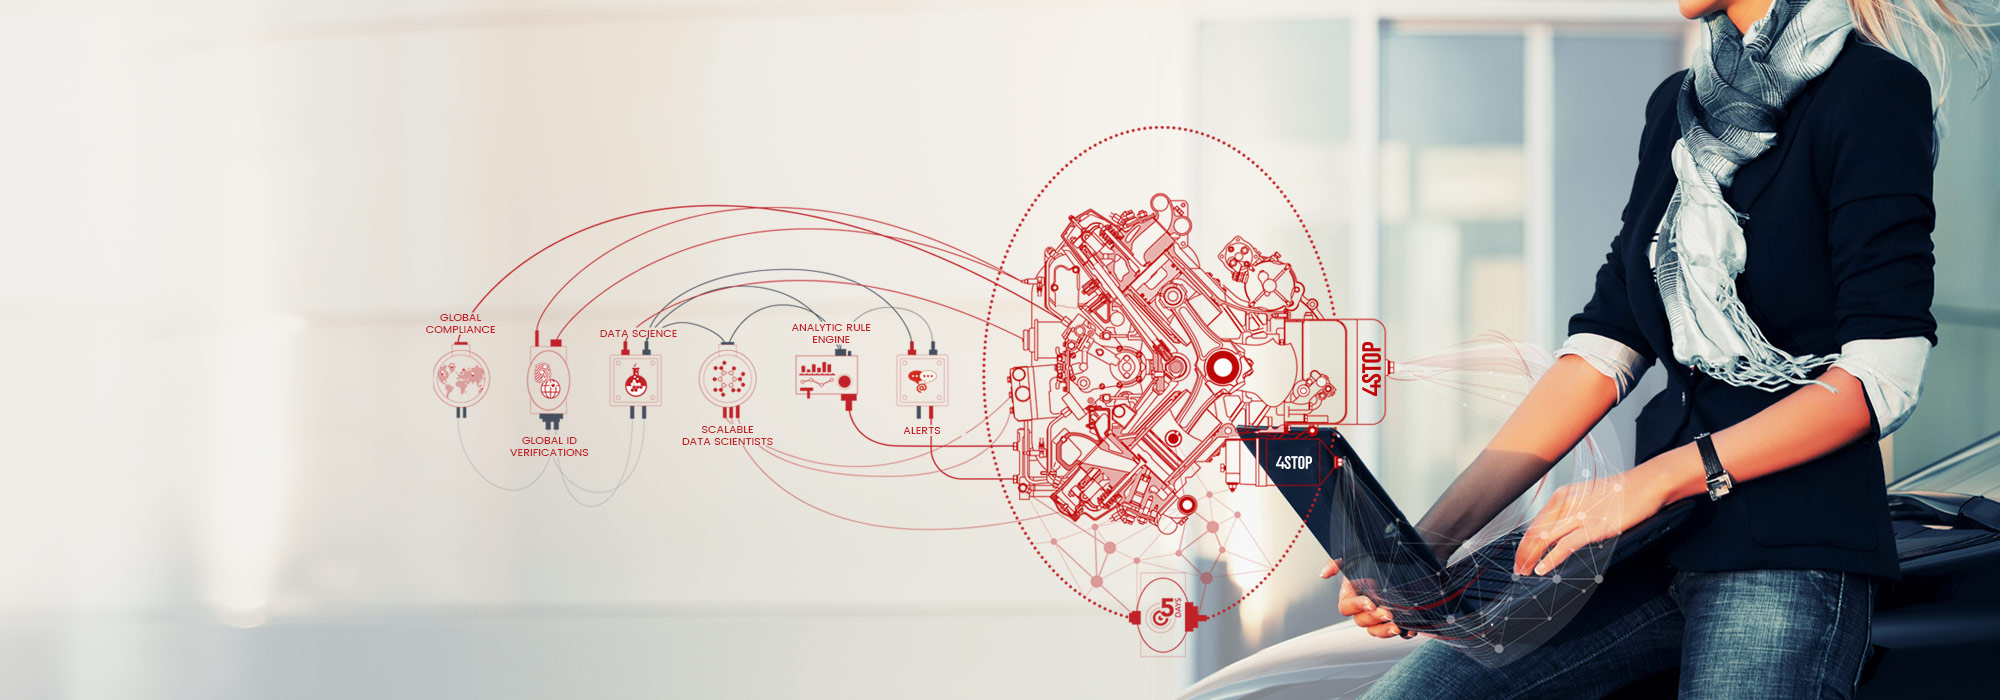
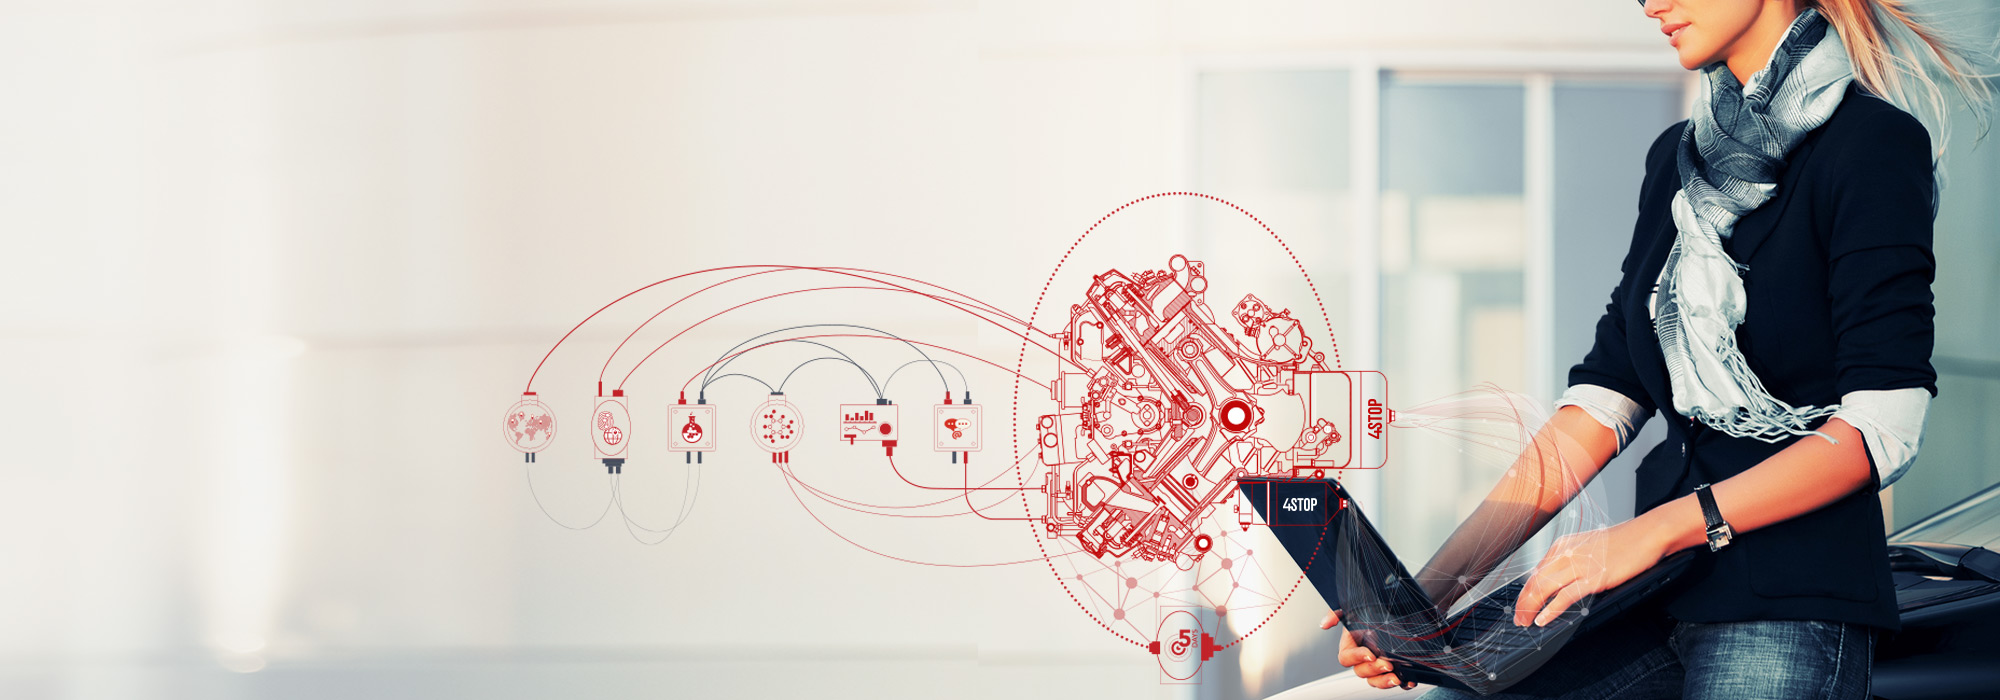
image updates

diff --git a/_site/Онас.html b/_site/Онас.html
@@ -130,7 +130,7 @@ background-position: center center;" >
 						</div>
 					</div>
 						<div class="col-md-12" align="center">
-							<img src="assets/images/what-we-do-infographic.png" alt="" class="offer-1-product__img fx" data-animation-name="slideInDown" data-animation-duration="0.9s" data-animation-delay="0s">
+							<img src="assets/images/what-we-do-infographic-ru.png" alt="" class="offer-1-product__img fx" data-animation-name="slideInDown" data-animation-duration="0.9s" data-animation-delay="0s">
 							<h3 style="color:#d42227; padding-top:20px; padding-bottom:40px;" align="center">Мы предоставляем улучшенную инновационную технологию KYC, систему управления рисками, и обеспечиваем совместимость для более эффективной и быстрой интеграции и работы по сравнению с любой другой подобной технологией в профессиональной среде.</h3>
 						</div>
 				</div>
@@ -149,7 +149,7 @@ background-position: center center;" >
 								<div class="process-subitem fx" data-animation-name="fadeInRight" data-animation-duration="1s" data-animation-delay="0.2s">
 									<i class="process-subitem__ico ico-12">Модернизация</i>	
 									<p class="process-subitem__description">Активируйте любую службу данных KYC с нулевой очередью запросов к устройству или без очереди запросов к устройству. Наши специалисты по обработке данных работают 24 часа и 7 дней в неделю. Больше никакой загруженной очереди запросов к устройству.<br><br>
-										Нулевая очередь загруженности запросов к устройству<br><br>Абсолютная защита
+										Нулевая очередь загруженности запросов к устройству.<br><br>Абсолютная защита.
 </p>
 								</div>
 							
@@ -226,7 +226,7 @@ background-position: center center;" >
 					<div class="row">
 						<div class="col-xs-12 col-sm-12 col-md-6 align-middle">
 							<div class="s-get-it-2__title"><h4>Возникли вопросы?</h4> 
-								<h5>Мы нацелены на работу с Вами и Вашим бизнесом для получения оптимальной интеграции для достижения максимальных результатов</h5></div>
+								<h5>Мы нацелены на работу с Вами и Вашим бизнесом для получения оптимальной интеграции для достижения максимальных результатов.</h5></div>
 						</div>
 						<div class="col-xs-12 col-sm-12 col-md-3 align-middle">
 							<a class="btn-a btn-a_size_large btn-a_weight_bold" href="assets/downloads/4Stop-General1Pager-RUS.pdf" target="_blank">Обзор док.</a>
@@ -246,7 +246,7 @@ background-position: center center;" >
 						<div class="row">
 							<div class="col-xs-12 col-sm-4">
 								<div class="footer__title" style="color:#d42227;">Мы гарантируем</div>
-								<div class="footer__about" style="color:#58595b;">10-кратные преимущества<br> Надежное расширение Ваших прав и возможностей<br><br>Мы гарантируем надежность и постоянный успех для того, чтобы оставаться впереди и управлять технологией «Знай своего клиента» и Вашими нормами соответствия, а также обеспечиваем Ваш бизнес передовыми средствами управления рисками для получения максимальных доходов и роста.</div>
+								<div class="footer__about" style="color:#58595b;">10-кратные преимущества.<br> Надежное расширение Ваших прав и возможностей.<br><br>Мы гарантируем надежность и постоянный успех для того, чтобы оставаться впереди и управлять технологией «Знай своего клиента» и Вашими нормами соответствия, а также обеспечиваем Ваш бизнес передовыми средствами управления рисками для получения максимальных доходов и роста.</div>
 							</div>
 							<div class="col-xs-12 col-sm-4">
 								<div class="footer__title" style="color:#d42227;">Связаться с нами</div>

diff --git a/Онас.html b/Онас.html
@@ -130,7 +130,7 @@ background-position: center center;" >
 						</div>
 					</div>
 						<div class="col-md-12" align="center">
-							<img src="assets/images/what-we-do-infographic.png" alt="" class="offer-1-product__img fx" data-animation-name="slideInDown" data-animation-duration="0.9s" data-animation-delay="0s">
+							<img src="assets/images/what-we-do-infographic-ru.png" alt="" class="offer-1-product__img fx" data-animation-name="slideInDown" data-animation-duration="0.9s" data-animation-delay="0s">
 							<h3 style="color:#d42227; padding-top:20px; padding-bottom:40px;" align="center">Мы предоставляем улучшенную инновационную технологию KYC, систему управления рисками, и обеспечиваем совместимость для более эффективной и быстрой интеграции и работы по сравнению с любой другой подобной технологией в профессиональной среде.</h3>
 						</div>
 				</div>
@@ -149,7 +149,7 @@ background-position: center center;" >
 								<div class="process-subitem fx" data-animation-name="fadeInRight" data-animation-duration="1s" data-animation-delay="0.2s">
 									<i class="process-subitem__ico ico-12">Модернизация</i>	
 									<p class="process-subitem__description">Активируйте любую службу данных KYC с нулевой очередью запросов к устройству или без очереди запросов к устройству. Наши специалисты по обработке данных работают 24 часа и 7 дней в неделю. Больше никакой загруженной очереди запросов к устройству.<br><br>
-										Нулевая очередь загруженности запросов к устройству<br><br>Абсолютная защита
+										Нулевая очередь загруженности запросов к устройству.<br><br>Абсолютная защита.
 </p>
 								</div>
 							
@@ -226,7 +226,7 @@ background-position: center center;" >
 					<div class="row">
 						<div class="col-xs-12 col-sm-12 col-md-6 align-middle">
 							<div class="s-get-it-2__title"><h4>Возникли вопросы?</h4> 
-								<h5>Мы нацелены на работу с Вами и Вашим бизнесом для получения оптимальной интеграции для достижения максимальных результатов</h5></div>
+								<h5>Мы нацелены на работу с Вами и Вашим бизнесом для получения оптимальной интеграции для достижения максимальных результатов.</h5></div>
 						</div>
 						<div class="col-xs-12 col-sm-12 col-md-3 align-middle">
 							<a class="btn-a btn-a_size_large btn-a_weight_bold" href="assets/downloads/4Stop-General1Pager-RUS.pdf" target="_blank">Обзор док.</a>
@@ -246,7 +246,7 @@ background-position: center center;" >
 						<div class="row">
 							<div class="col-xs-12 col-sm-4">
 								<div class="footer__title" style="color:#d42227;">Мы гарантируем</div>
-								<div class="footer__about" style="color:#58595b;">10-кратные преимущества<br> Надежное расширение Ваших прав и возможностей<br><br>Мы гарантируем надежность и постоянный успех для того, чтобы оставаться впереди и управлять технологией «Знай своего клиента» и Вашими нормами соответствия, а также обеспечиваем Ваш бизнес передовыми средствами управления рисками для получения максимальных доходов и роста.</div>
+								<div class="footer__about" style="color:#58595b;">10-кратные преимущества.<br> Надежное расширение Ваших прав и возможностей.<br><br>Мы гарантируем надежность и постоянный успех для того, чтобы оставаться впереди и управлять технологией «Знай своего клиента» и Вашими нормами соответствия, а также обеспечиваем Ваш бизнес передовыми средствами управления рисками для получения максимальных доходов и роста.</div>
 							</div>
 							<div class="col-xs-12 col-sm-4">
 								<div class="footer__title" style="color:#d42227;">Связаться с нами</div>

diff --git a/_site/index-ru.html b/_site/index-ru.html
@@ -155,7 +155,7 @@ a.async=true;a.type="text/javascript";b.parentNode.insertBefore(a,b)}, 1);
 						</div>
 					</div>
 						<div class="col-md-12" align="center">
-							<img src="assets/images/what-we-do-infographic.png" alt="" class="offer-1-product__img fx" data-animation-name="slideInDown" data-animation-duration="0.9s" data-animation-delay="0s">
+							<img src="assets/images/what-we-do-infographic-ru.png" alt="" class="offer-1-product__img fx" data-animation-name="slideInDown" data-animation-duration="0.9s" data-animation-delay="0s">
 							<h3 style="color:#d42227; padding-top:20px; padding-bottom:40px;" align="center">Мы предоставляем улучшенную инновационную технологию KYC, систему управления рисками, и обеспечиваем совместимость для более эффективной и быстрой интеграции и работы по сравнению с любой другой подобной технологией в профессиональной среде.</h3>
 						</div>
 				</div>
@@ -512,7 +512,7 @@ a.async=true;a.type="text/javascript";b.parentNode.insertBefore(a,b)}, 1);
 						<div class="row">
 							<div class="col-xs-12 col-sm-4">
 								<div class="footer__title" style="color:#d42227;">Мы гарантируем</div>
-								<div class="footer__about" style="color:#58595b;">10-кратные преимущества<br> Надежное расширение Ваших прав и возможностей<br><br>Мы гарантируем надежность и постоянный успех для того, чтобы оставаться впереди и управлять технологией «Знай своего клиента» и Вашими нормами соответствия, а также обеспечиваем Ваш бизнес передовыми средствами управления рисками для получения максимальных доходов и роста.</div>
+								<div class="footer__about" style="color:#58595b;">10-кратные преимущества.<br> Надежное расширение Ваших прав и возможностей.<br><br>Мы гарантируем надежность и постоянный успех для того, чтобы оставаться впереди и управлять технологией «Знай своего клиента» и Вашими нормами соответствия, а также обеспечиваем Ваш бизнес передовыми средствами управления рисками для получения максимальных доходов и роста.</div>
 							</div>
 							<div class="col-xs-12 col-sm-4">
 								<div class="footer__title" style="color:#d42227;">Связаться с нами</div>

diff --git a/index-ru.html b/index-ru.html
@@ -155,7 +155,7 @@ a.async=true;a.type="text/javascript";b.parentNode.insertBefore(a,b)}, 1);
 						</div>
 					</div>
 						<div class="col-md-12" align="center">
-							<img src="assets/images/what-we-do-infographic.png" alt="" class="offer-1-product__img fx" data-animation-name="slideInDown" data-animation-duration="0.9s" data-animation-delay="0s">
+							<img src="assets/images/what-we-do-infographic-ru.png" alt="" class="offer-1-product__img fx" data-animation-name="slideInDown" data-animation-duration="0.9s" data-animation-delay="0s">
 							<h3 style="color:#d42227; padding-top:20px; padding-bottom:40px;" align="center">Мы предоставляем улучшенную инновационную технологию KYC, систему управления рисками, и обеспечиваем совместимость для более эффективной и быстрой интеграции и работы по сравнению с любой другой подобной технологией в профессиональной среде.</h3>
 						</div>
 				</div>
@@ -512,7 +512,7 @@ a.async=true;a.type="text/javascript";b.parentNode.insertBefore(a,b)}, 1);
 						<div class="row">
 							<div class="col-xs-12 col-sm-4">
 								<div class="footer__title" style="color:#d42227;">Мы гарантируем</div>
-								<div class="footer__about" style="color:#58595b;">10-кратные преимущества<br> Надежное расширение Ваших прав и возможностей<br><br>Мы гарантируем надежность и постоянный успех для того, чтобы оставаться впереди и управлять технологией «Знай своего клиента» и Вашими нормами соответствия, а также обеспечиваем Ваш бизнес передовыми средствами управления рисками для получения максимальных доходов и роста.</div>
+								<div class="footer__about" style="color:#58595b;">10-кратные преимущества.<br> Надежное расширение Ваших прав и возможностей.<br><br>Мы гарантируем надежность и постоянный успех для того, чтобы оставаться впереди и управлять технологией «Знай своего клиента» и Вашими нормами соответствия, а также обеспечиваем Ваш бизнес передовыми средствами управления рисками для получения максимальных доходов и роста.</div>
 							</div>
 							<div class="col-xs-12 col-sm-4">
 								<div class="footer__title" style="color:#d42227;">Связаться с нами</div>
